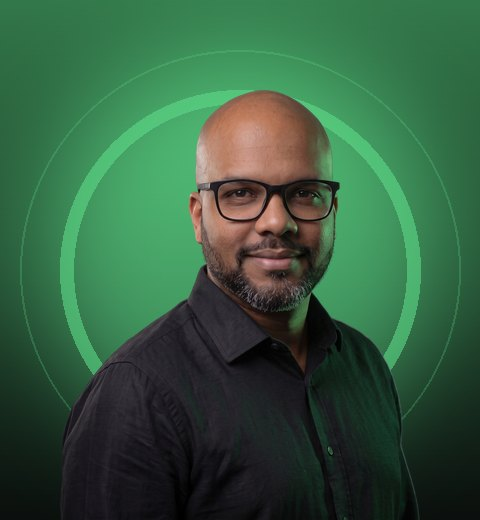
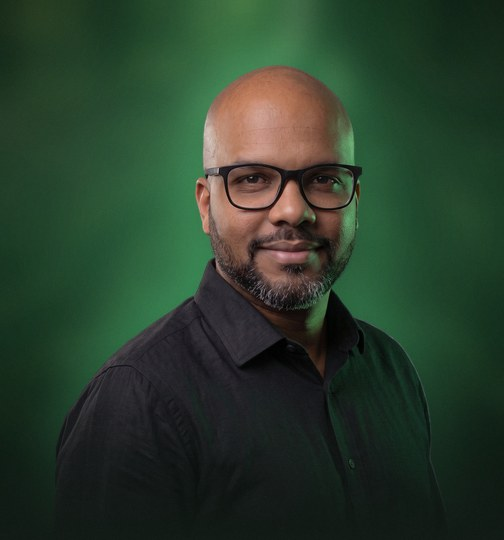
Mailing: nuevos fondos de expositores y tarjeta de diagnóstico

diff --git a/email/confirmacion.html b/email/confirmacion.html
@@ -230,7 +230,7 @@
     <table role="presentation" width="100%" cellpadding="0" cellspacing="0" border="0"><tr>
       <td class="stack stack-pad" width="50%" valign="top" style="padding-right:8px;">
         <table role="presentation" width="100%" cellpadding="0" cellspacing="0" border="0" style="border:1px solid #24402F;border-radius:18px;background:#121B16;">
-          <tr><td class="full" style="padding:0;"><img src="https://jpmenenm.github.io/webinar-sapb1-v26/email/img/speaker-antonio.jpg" width="252" height="273" alt="Antonio Sánchez" style="width:100%;max-width:252px;height:auto;border-radius:18px 18px 0 0;"></td></tr>
+          <tr><td class="full" style="padding:0;"><img src="https://jpmenenm.github.io/webinar-sapb1-v26/email/img/speaker-antonio.jpg" width="252" height="270" alt="Antonio Sánchez" style="width:100%;max-width:252px;height:auto;border-radius:18px 18px 0 0;"></td></tr>
           <tr><td class="f" style="padding:16px 18px 18px;font-family:'Poppins',Arial,sans-serif;">
             <div style="font-size:17px;line-height:22px;color:#EBE9E3;font-weight:600;">Antonio Sánchez</div>
             <div style="font-size:12px;line-height:18px;color:#5DDB88;margin:2px 0 8px;">Jefe de Desarrollo · DOT Solutions</div>
@@ -240,10 +240,10 @@
       </td>
       <td class="stack" width="50%" valign="top" style="padding-left:8px;">
         <table role="presentation" width="100%" cellpadding="0" cellspacing="0" border="0" style="border:1px solid #24402F;border-radius:18px;background:#121B16;">
-          <tr><td class="full" style="padding:0;"><img src="https://jpmenenm.github.io/webinar-sapb1-v26/email/img/speaker-carlos.jpg" width="252" height="273" alt="Carlos Gonsales" style="width:100%;max-width:252px;height:auto;border-radius:18px 18px 0 0;"></td></tr>
+          <tr><td class="full" style="padding:0;"><img src="https://jpmenenm.github.io/webinar-sapb1-v26/email/img/speaker-carlos.jpg" width="252" height="270" alt="Carlos Gonsales" style="width:100%;max-width:252px;height:auto;border-radius:18px 18px 0 0;"></td></tr>
           <tr><td class="f" style="padding:16px 18px 18px;font-family:'Poppins',Arial,sans-serif;">
             <div style="font-size:17px;line-height:22px;color:#EBE9E3;font-weight:600;">Carlos Gonsales</div>
-            <div style="font-size:12px;line-height:18px;color:#5DDB88;margin:2px 0 8px;">Gerente Comercial SAP Business One · DOT Solutions</div>
+            <div style="font-size:12px;line-height:18px;color:#5DDB88;margin:2px 0 8px;">Gerente Comercial SAP B1 · DOT Solutions</div>
             <div style="font-size:12px;line-height:18px;color:#9AA197;">Consultor certificado, trabaja con SAP Business One desde 2006. Fue tester de la versión 9.1 en el Acceptance Test de SAP en Shanghái.</div>
           </td></tr>
         </table>
@@ -253,11 +253,11 @@
 
   <!-- ============ DIAGNÓSTICO ============ -->
   <tr><td class="px" bgcolor="#0F1512" style="background:#0F1512;padding:26px 40px 36px;border-radius:0 0 20px 20px;">
-    <table role="presentation" width="100%" cellpadding="0" cellspacing="0" border="0" style="border-radius:18px;background:#1F6536;background-image:linear-gradient(135deg,#1F6536 0%,#0D3518 100%);">
-      <tr><td class="f center-m" style="padding:24px 24px 22px;font-family:'Poppins',Arial,sans-serif;">
-        <div style="font-size:11px;letter-spacing:2.4px;color:#B4C1A3;font-weight:500;margin-bottom:6px;">DESPUÉS DEL WEBINAR</div>
+    <table role="presentation" width="100%" cellpadding="0" cellspacing="0" border="0" bgcolor="#12301F" background="https://jpmenenm.github.io/webinar-sapb1-v26/email/img/bg-diagnostico.jpg" style="border-radius:18px;border:1px solid #2E6B45;background-color:#12301F;background-image:url('https://jpmenenm.github.io/webinar-sapb1-v26/email/img/bg-diagnostico.jpg');background-size:cover;background-position:center right;">
+      <tr><td class="f center-m" style="padding:28px 26px 26px;font-family:'Poppins',Arial,sans-serif;">
+        <div style="font-size:11px;letter-spacing:2.4px;color:#5DDB88;font-weight:500;margin-bottom:6px;">DESPUÉS DEL WEBINAR</div>
         <div style="font-size:19px;line-height:26px;color:#EBE9E3;font-weight:600;margin-bottom:8px;">¿Quieres llevarlo a tu operación?</div>
-        <div style="font-size:13px;line-height:20px;color:#D5DBCF;margin-bottom:16px;">Agenda un diagnóstico estratégico: una conversación con un Consultor Senior para entender tu operación y tu ecosistema de integraciones.</div>
+        <div style="font-size:13px;line-height:20px;color:#D5DBCF;margin-bottom:18px;max-width:380px;">Agenda un diagnóstico estratégico: una conversación con un Consultor Senior para entender tu operación y tu ecosistema de integraciones.</div>
         <table role="presentation" cellpadding="0" cellspacing="0" border="0" align="left" class="center-m"><tr>
           <td class="btn" bgcolor="#5DDB88" style="border-radius:999px;background:#5DDB88;">
             <a href="mailto:contacto@dotsolutions.io?subject=Diagn%C3%B3stico%20estrat%C3%A9gico%20-%20Webinar%20SAP%20B1%20v26.1" class="f" style="display:inline-block;padding:12px 22px;font-family:'Poppins',Arial,sans-serif;font-size:14px;font-weight:600;color:#0B120D;text-decoration:none;border-radius:999px;">Quiero mi diagnóstico &rarr;</a>
